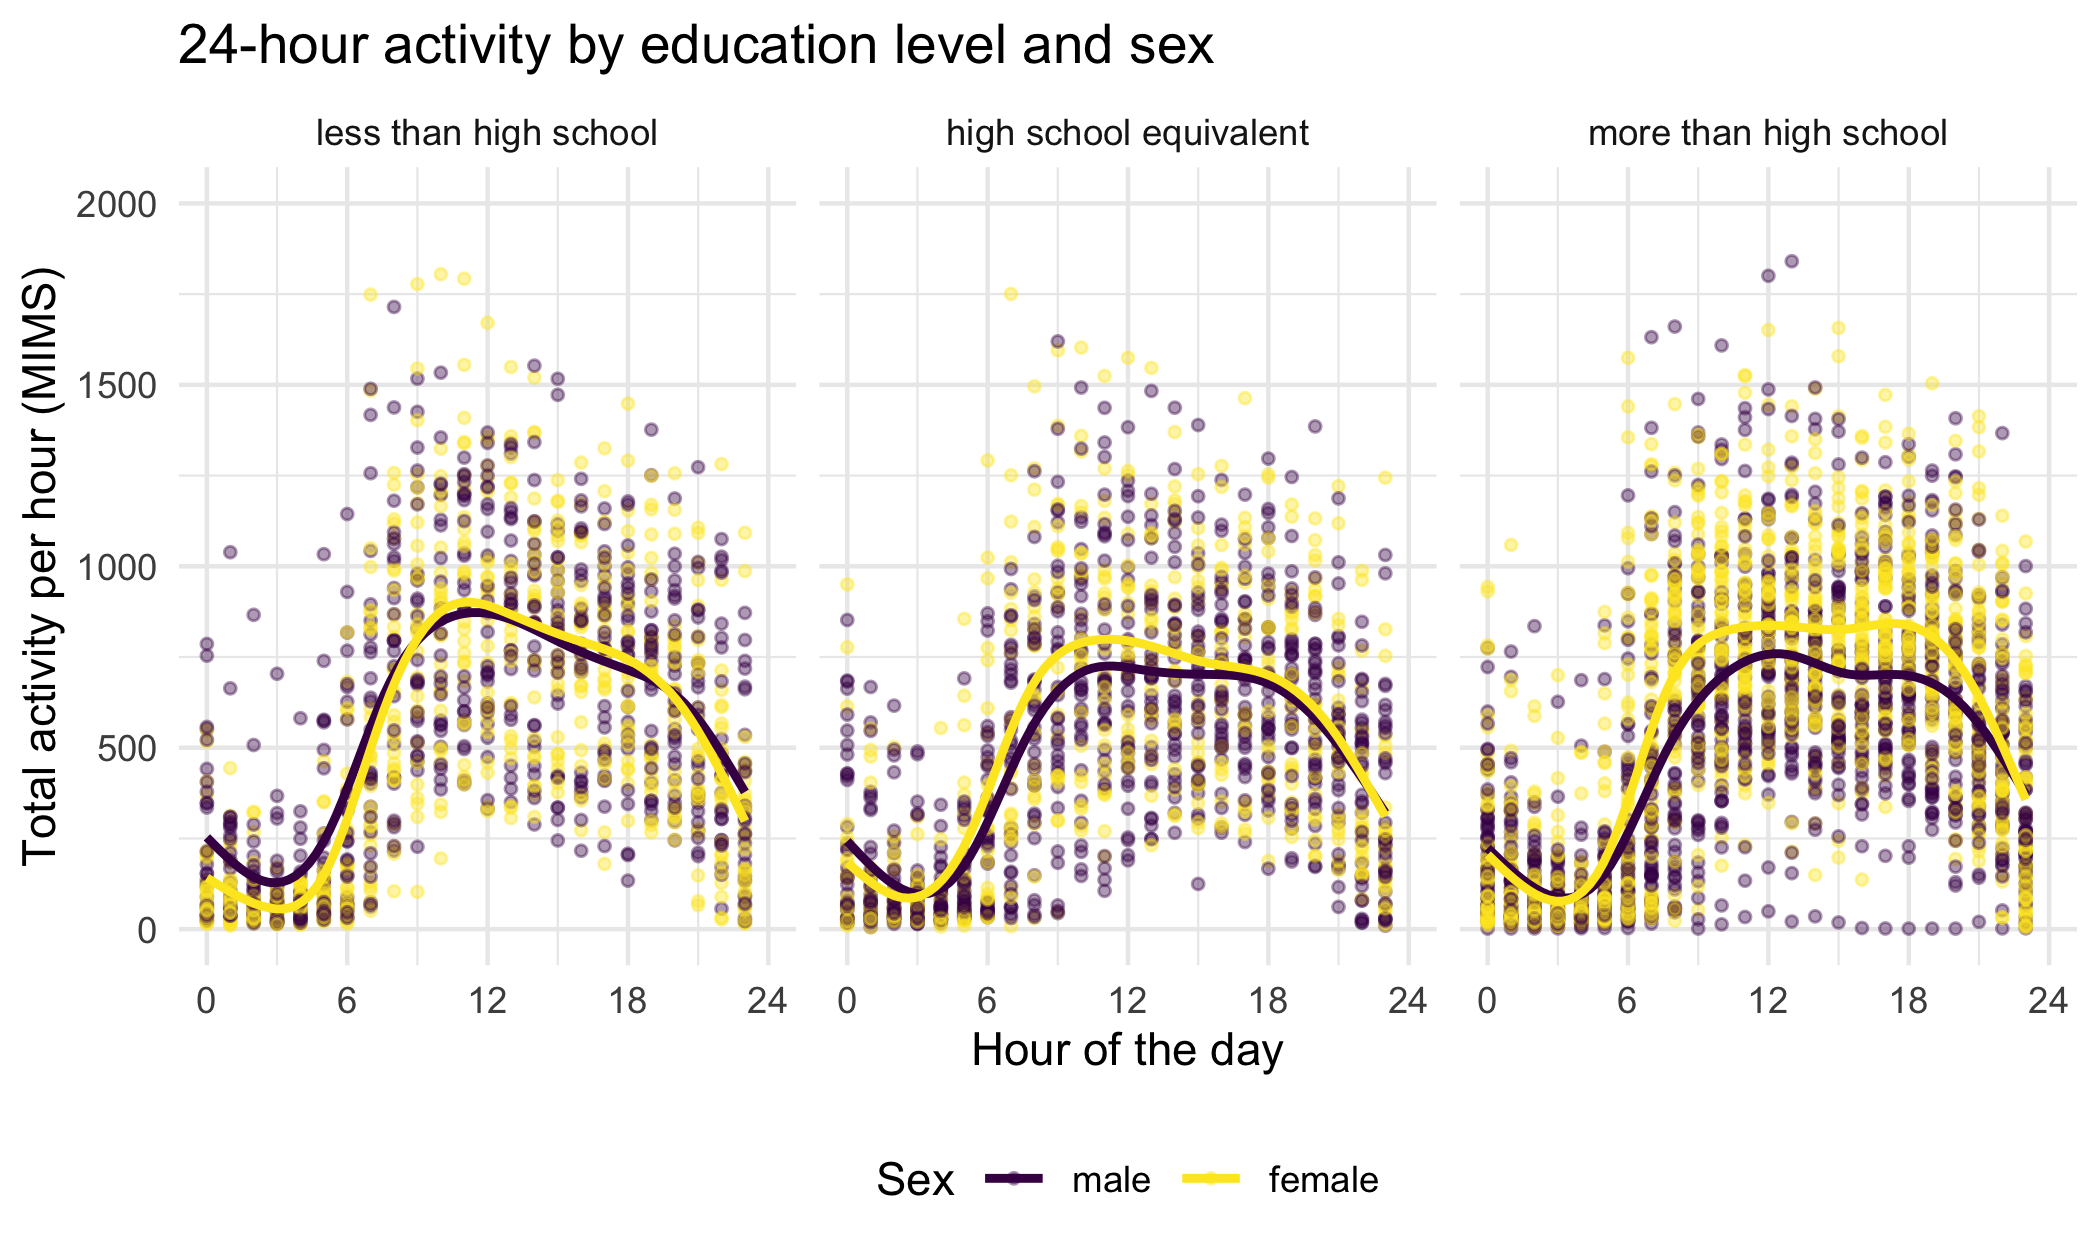
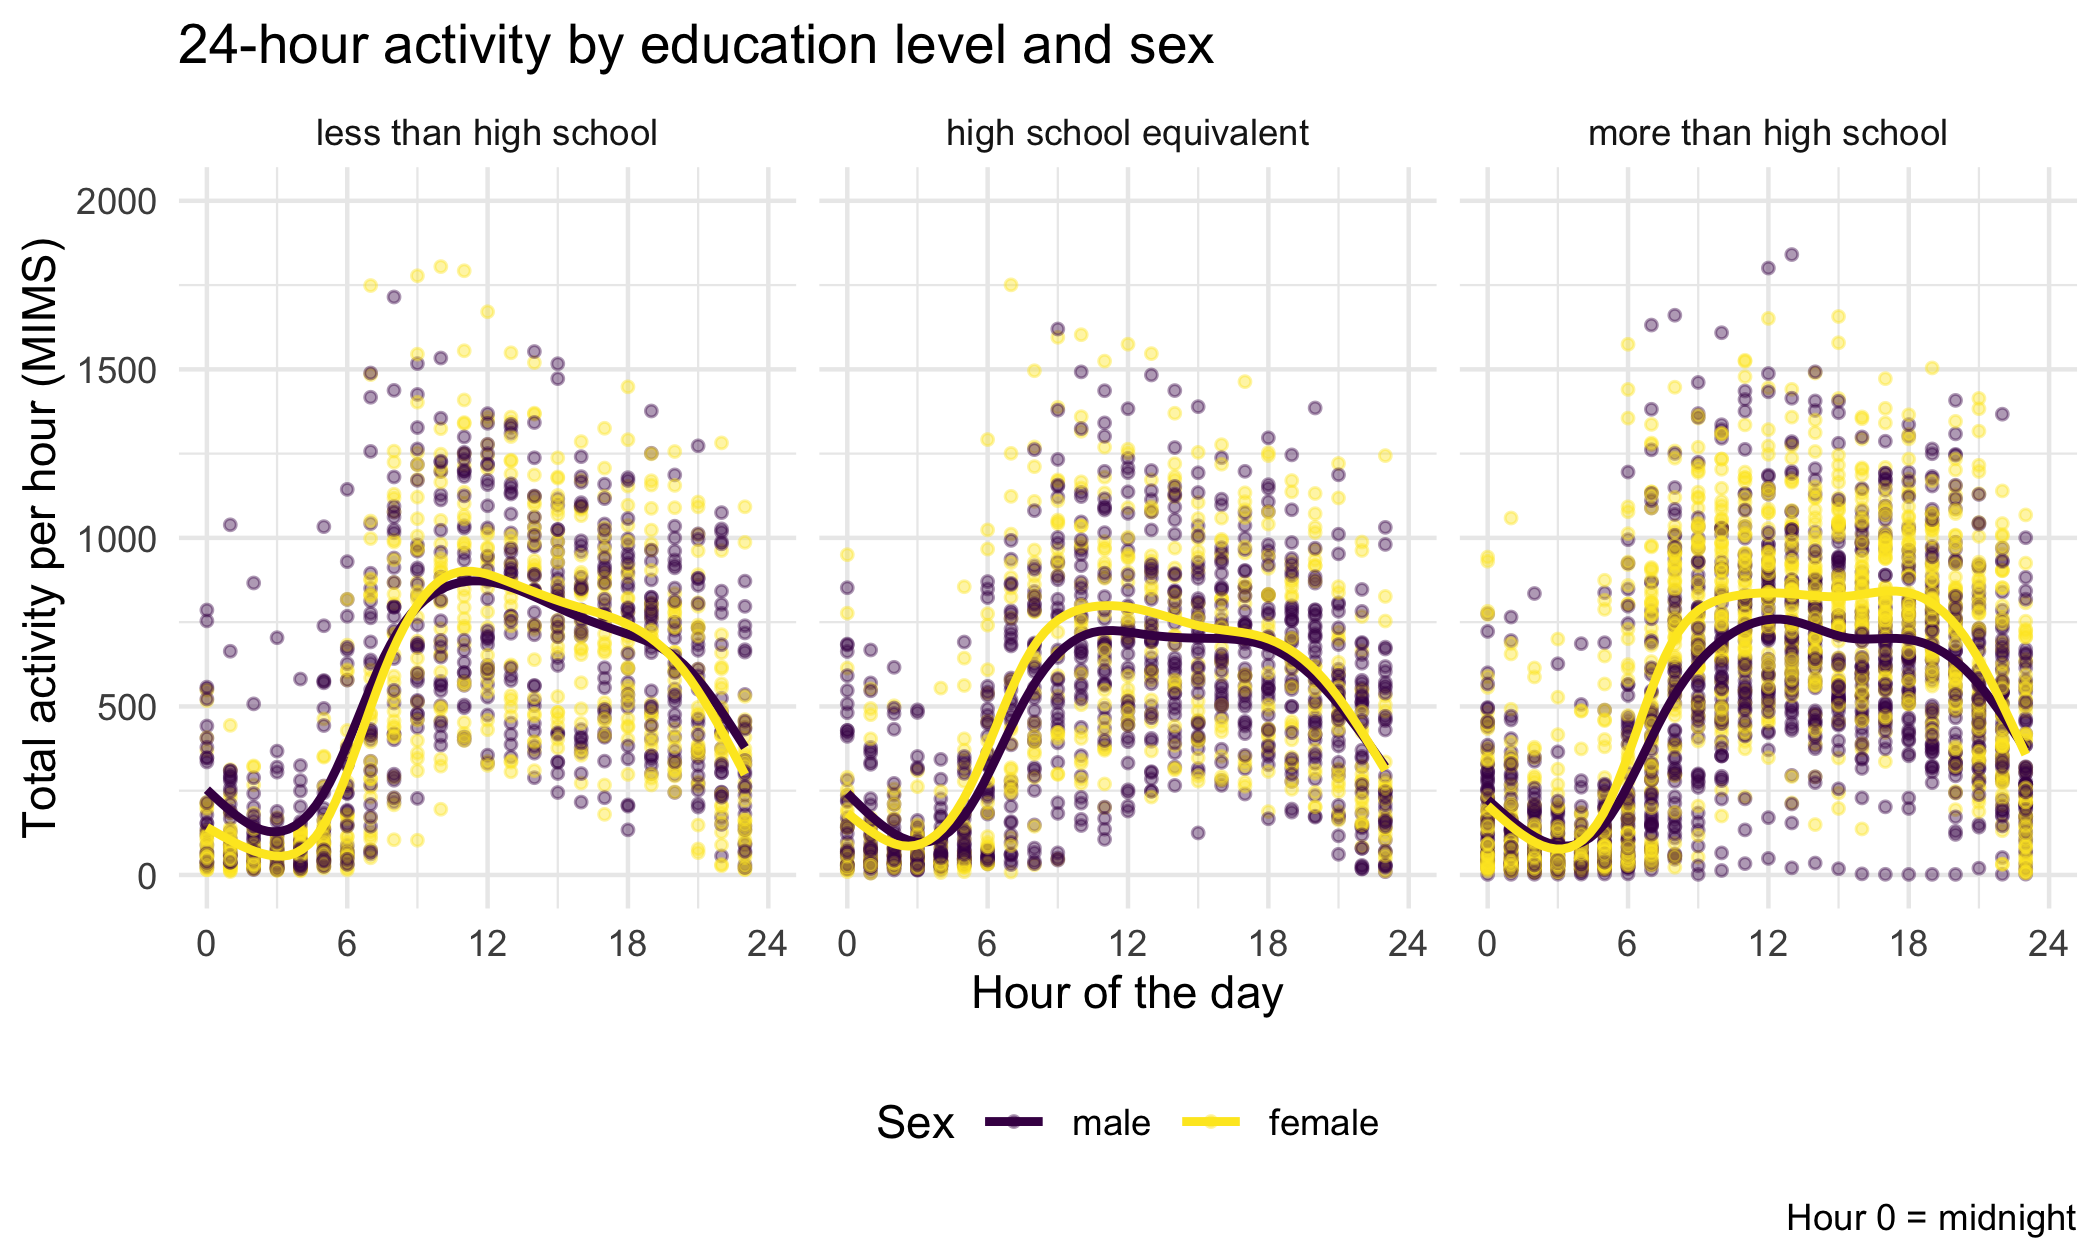
24 hour activity plot write up (problem 2)

diff --git a/p8105_hw3_nel2139.md b/p8105_hw3_nel2139.md
@@ -414,7 +414,20 @@ nhanes_df |>
     title = "24-hour activity by education level and sex",
     x = "Hour of the day",
     y = "Total activity per hour (MIMS)",
-    color = "Sex")
+    color = "Sex", 
+    caption = "Hour 0 = midnight")
 ```
 
 <img src="p8105_hw3_nel2139_files/figure-gfm/unnamed-chunk-10-1.png" alt="" width="90%" />
+
+Both sexes followed a similar daily pattern across all three education
+groups. Activity was lowest overnight (hours 2-5, or 2-5am), rose
+sharply between hours 5 and 10 (5-10am), stayed high from about hour 10
+to 19 (10am-7pm), and declined from hour 19 to 24 (7pm-midnight). In the
+less than high school group, activity peaked around hours 10–11
+(10-11am), and men and women had nearly identical patterns. In the other
+two groups, activity stayed fairly level through the day, and women were
+slightly more active than men, with the largest difference in the more
+than high school group. Overall, daily activity patterns were similar
+across groups, with sex differences becoming more noticeable at higher
+education levels.
